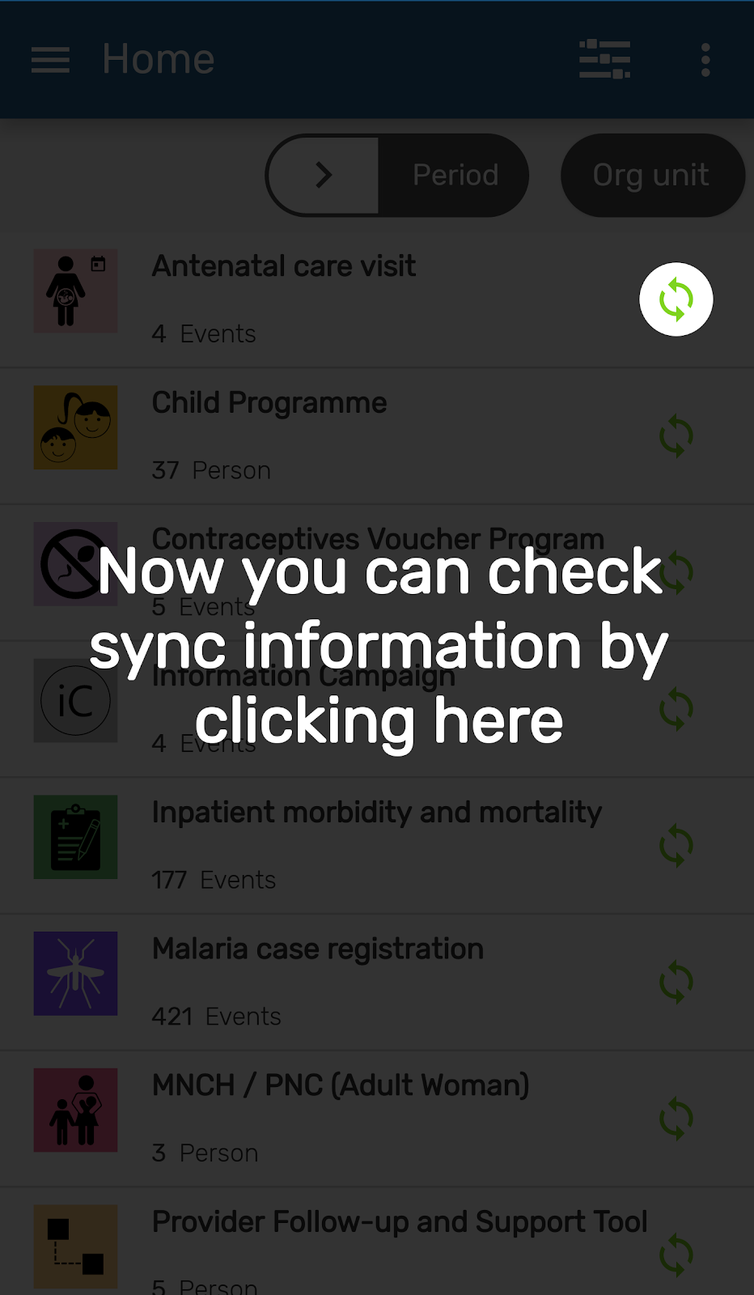
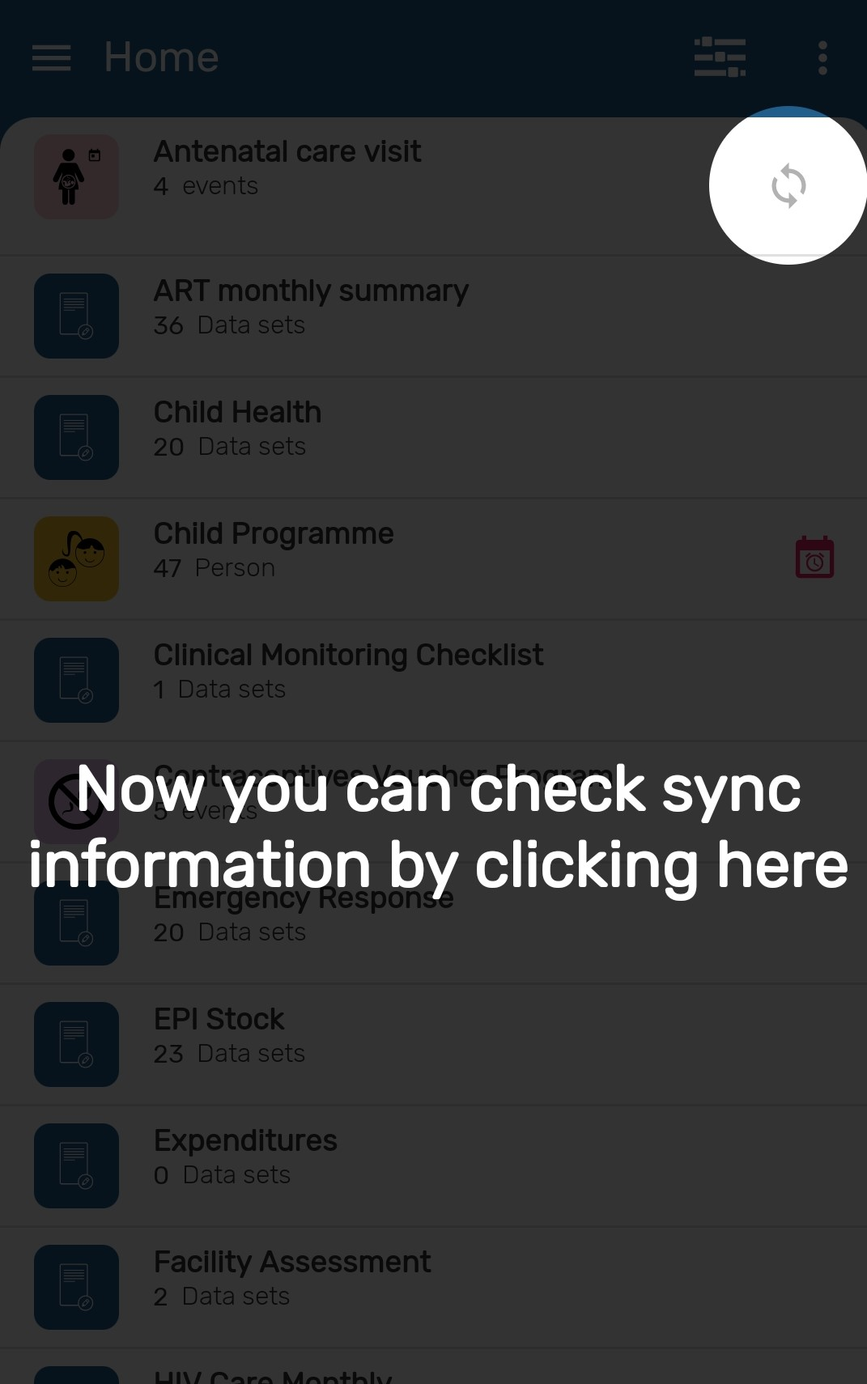
2.2 updates

diff --git a/docs/src/commonmark/en/content/capture-app/program-indicators.md b/docs/src/commonmark/en/content/capture-app/program-indicators.md
@@ -13,6 +13,50 @@ Any issues around using a particular feature with Android are highlighted with a
 |![](resources/images/../../admin/icon-na.png)|Not applicable|
 |![](resources/images/../../admin/icon-wip.png)|Work in progress. Feature not completely implemented yet or with unexpected behaviour already reported.|
 
+## Common functions to use in a program indicator expression or filter
+
+ Function| Description |Status|Notes on implementation|
+|-|---|:-:|---|
+|if|Evaluates the boolean expression and if true returns the true expression value, if false returns the false expression value. The arguments must follow the rules for any indicator expression.|![](resources/images/../../admin/icon-complete.png)||
+|isNull|Returns true if the element value is missing (null), otherwise false.|![](resources/images/../../admin/icon-complete.png)||
+|isNotNull|Returns true if the element value is not missing (not null), otherwise false.|![](resources/images/../../admin/icon-complete.png)||
+|firstNonNull|RReturns the value of the first element that is not missing (not null). Can be provided any number of arguments. Any argument may also be a numeric or string literal, which will be returned if all the previous objects have missing values.|![](resources/images/../../admin/icon-complete.png)||
+|greatest|Returns the greatest (highest) value of the expressions given. Can be provided any number of arguments.|![](resources/images/../../admin/icon-complete.png)||
+|least|Returns the least (lowest) value of the expressions given. Can be provided any number of arguments.|![](resources/images/../../admin/icon-complete.png)||
+
+## (d2) Functions to use in a program indicator expression or filter
+
+ Function| Description |Status|Notes on implementation|
+|-|---|:-:|---|
+|addDays|Produces a date based on the first argument date, adding the second argument number of days.|![](resources/images/../../admin/icon-complete.png)||
+|ceil|Rounds the input argument up to the nearest whole number.|![](resources/images/../../admin/icon-complete.png)||
+|condition|Evaluates the boolean expression and if true returns the true expression value, if false returns the false expression value. The conditional expression must be quoted. The true-expr and false-expr arguments must follow the rules of any program indicator expression (including functions).|![](resources/images/../../admin/icon-complete.png)||
+|count|Counts the number of data values that has been collected for the given program stage and data element in the course of the enrollment. The argument data element is supplied with the #{programStage.dataElement} syntax.|![](resources/images/../../admin/icon-complete.png)||
+|countIfCondition|Counts the number of data values that matches the given condition criteria for the given program stage and data element in the course of the enrollment. The argument data element is supplied with the #{programStage.dataElement} syntax. The condition is supplied as a expression in single quotes.|![](resources/images/../../admin/icon-complete.png)||
+|countIfValue|Counts the number of data values that matches the given literal value for the given program stage and data element in the course of the enrollment. The argument data element is supplied with the #{programStage.dataElement} syntax. The value can be a hard coded text or number.|![](resources/images/../../admin/icon-complete.png)||
+|countIfZeroPos|Counts the number of values that is zero or positive entered for the source field in the argument.|![](resources/images/../../admin/icon-complete.png)||
+|daysBetween|Produces the number of days between two data elements/attributes of type date.|![](resources/images/../../admin/icon-complete.png)||
+|floor|Rounds the input argument down to the nearest whole number.|![](resources/images/../../admin/icon-complete.png)||
+|hasUserRole|Returns true if current user has this role otherwise false.|![](resources/images/../../admin/icon-complete.png)||
+|hasValue|Returns true if the data element/attribute has a value.|![](resources/images/../../admin/icon-complete.png)||
+|inOrgUnitGroup|Evaluates whether the current organisation unit is in the argument group. The argument can be defined with either ID or organisation unit group code.|![](resources/images/../../admin/icon-complete.png)||
+|left|Evaluates to the left part of a text, num-chars from the first character.|![](resources/images/../../admin/icon-complete.png)||
+|length|Find the length of a string.|![](resources/images/../../admin/icon-complete.png)||
+|minutesBetween|Produces the number of minutes between two data elements/attributes of type “date and time”.|![](resources/images/../../admin/icon-complete.png)||
+|modulus|Produces the modulus when dividing the first with the second argument.|![](resources/images/../../admin/icon-complete.png)||
+|monthsBetween|Produces the number of full months between the first and second argument.|![](resources/images/../../admin/icon-complete.png)||
+|oizp|Returns one if the expression is zero or positive, otherwise returns zero.|![](resources/images/../../admin/icon-complete.png)||
+|relationshipCount|Produces the number of relationships of the given type that is connected to the enrollment or event. When no type is given, all types are counted.|![](resources/images/../../admin/icon-incomplete.png)||
+|right|	Evaluates to the right part of a text, num-chars from the last character.|![](resources/images/../../admin/icon-complete.png)||
+|round|	Rounds the input argument to the nearest whole number.|![](resources/images/../../admin/icon-complete.png)||
+|split|RSplit the text by delimiter, and keep the nth element(0 is the first).|![](resources/images/../../admin/icon-complete.png)||
+|substring|Evaluates to the part of a string specified by the start and end character number.|![](resources/images/../../admin/icon-complete.png)||
+|validatePatten|Evaluates to true if the input text is an exact match with the supplied regular expression pattern.|![](resources/images/../../admin/icon-complete.png)||
+|weeksBetween|Produces the number of full weeks between two data elements/attributes of type date.|![](resources/images/../../admin/icon-complete.png)||
+|yearsBetween|Produces the number of years between the first and second argument.|![](resources/images/../../admin/icon-complete.png)||
+|zing|Returns zero if the expression is negative, otherwise returns the expression value.|![](resources/images/../../admin/icon-complete.png)||
+|zpvc|Returns the number of numeric zero and positive values among the given object arguments.|![](resources/images/../../admin/icon-complete.png)||
+
 ## Variables to use in a program indicator expression or filter
 
 <!-- DHIS2-SECTION-ID:programindicators_variables -->
@@ -20,22 +64,23 @@ Any issues around using a particular feature with Android are highlighted with a
 | Variable type| Description of variable type|Status|Notes on implementation|
 |-|---|:-:|---|
 |Event Date<br/>event_date|The date of when the event took place.|![](resources/images/../../admin/icon-complete.png)||
-|Creation Date\*<br/>creation_date|The date of when an event or enrollment was created in the system.|![](resources/images/../../admin/icon-wip.png)||
+|Creation Date\*<br/>creation_date|The date of when an event or enrollment was created in the system.|![](resources/images/../../admin/icon-complete.png)||
 |Due Date<br/>due_date|The date of when an event is due.|![](resources/images/../../admin/icon-complete.png)||
-|Sync Date\*<br/>sync_date|The date of when the event or enrollment was last synchronized with the Android app.|![](resources/images/../../admin/icon-wip.png)||
+|Sync Date\*<br/>sync_date|The date of when the event or enrollment was last synchronized with the Android app.|![](resources/images/../../admin/icon-incomplete.png)||
 |Incident Date<br/>incident_date|The date of the incidence of the event.|![](resources/images/../../admin/icon-complete.png)||
 |Enrollment Date (not visible on UI)<br/>enrollment_date|The date of when the tracked entity instance was enrolled in the program.|![](resources/images/../../admin/icon-complete.png)||
 |Enrollment Status<br/>enrollment_status|Can be used to include or exclude enrollments in certain statuses.|![](resources/images/../../admin/icon-complete.png)||
 |Current Date<br/>current_date|The current date.|![](resources/images/../../admin/icon-complete.png)||
-|Completed Date|The date the event is completed.|![](resources/images/../../admin/icon-wip.png)||
+|Completed Date|The date the event is completed.|![](resources/images/../../admin/icon-complete.png)||
 |Value Count<br/>value_count|The number of non-null values in the expression part of the event.|![](resources/images/../../admin/icon-complete.png)||
 |Zero or positive value count<br/>zero_pos_value_count|The number of numeric positive values in the expression part of the event.|![](resources/images/../../admin/icon-complete.png)||
 |Event Count<br/>event_count|The count of events (useful in combination with filters).|![](resources/images/../../admin/icon-complete.png)||
-|Enrollment Count<br/>enrollment_count|The count of enrollments (useful in combination with filters).|![](resources/images/../../admin/icon-na.png)|Indicators in the Android App are calculated in the domain of one TEI enrollment. Value always 1.||
+|Enrollment Count<br/>enrollment_count|The count of enrollments (useful in combination with filters).|![](resources/images/../../admin/icon-complete.png)|Indicators in the Android App are calculated in the domain of one TEI enrollment. Value always 1.||
 |TEI Count<br/>tei_count|The count of tracked entity instances (useful in combination with filters).|![](resources/images/../../admin/icon-na.png)|Indicators in the Android App are calculated in the domain of one TEI enrollment. Value always 1.||
-|Program Stage Name<br/>program_stage_name|Can be used in filters for including only certain program stages in a filter for tracker programs.|![](resources/images/../../admin/icon-wip.png)||
-|Program Stage ID<br/>program_stage_id|Can be used in filters for including only certain program stages in a filter for tracker programs.|![](resources/images/../../admin/icon-wip.png)||
+|Program Stage Name<br/>program_stage_name|Can be used in filters for including only certain program stages in a filter for tracker programs.|![](resources/images/../../admin/icon-incomplete.png)||
+|Program Stage ID<br/>program_stage_id|Can be used in filters for including only certain program stages in a filter for tracker programs.|![](resources/images/../../admin/icon-incomplete.png)||
 |Reporting Period Start<br/>reporting_period_start|Can be used in filters or expressions for comparing any date to the first date in each reporting period.|![](resources/images/../../admin/icon-na.png)|Indicators in the Android App are calculated in the domain of one TEI enrollment.||
 |Reporting Period End<br/>reporting_period_end|Can be used in filters or expressions for comparing any date to the last inclusive date in each reporting period.|![](resources/images/../../admin/icon-na.png)|Indicators in the Android App are calculated in the domain of one TEI enrollment.||
+|Organisation Unit Count<br/>organisationunit_count|.|![](resources/images/../../admin/icon-na.png)|||
 
 [Documentation Reference](https://docs.dhis2.org/master/en/user/html/configure_program_indicator.html%23program_indicator_functions_variables_operators&sa=D&ust=1557433016643000)

diff --git a/docs/src/commonmark/en/content/capture-app/program-rules-supported-in-android-capture-app.md b/docs/src/commonmark/en/content/capture-app/program-rules-supported-in-android-capture-app.md
@@ -41,7 +41,7 @@ Any issues around using a particular feature with Android are highlighted with a
 |Hide Option|Hide a single option for an option set in a given data element/tracked entity attribute. When combined with <b>show option group</b> the <b>hide option</b> takes precedence|![](resources/images/../../admin/icon-wip.png)|![](resources/images/../../admin/icon-wip.png)||
 |Hide Option Group|Hide all options in a given option group and data element/tracked entity attribute. When combined with <b>show option group</b> the <b>hide option</b> takes precedence |![](resources/images/../../admin/icon-wip.png)|![](resources/images/../../admin/icon-wip.png)||
 |Show option group|Used to show only options from a given option group in a given data element/tracked entity attribute. To show an option group implicitly hides all options that is not part of the group(s) that is shown.|![](resources/images/../../admin/icon-wip.png)|![](resources/images/../../admin/icon-wip.png)||
-|Assign Value|Assigns a value to a specified data element or attribute if the rule is true.|![](resources/images/../../admin/icon-complete.png)|![](resources/images/../../admin/icon-complete.png)||
+|Assign Value|Assigns a value to a specified data element or attribute if the rule is true.|![](resources/images/../../admin/icon-complete.png)|![](resources/images/../../admin/icon-complete.png)|To assing text, it must be in single quotes. For example: '2+2' will show the text 2+2 and 2+2, without the single quotes will show 4. |
 |Show Warning|Shows pop-up warning to the user if rule is true; does not prevent the user from continuing.|![](resources/images/../../admin/icon-complete.png)|![](resources/images/../../admin/icon-complete.png)||
 |Warning on Complete|Shows a pop-up warning to the user if, at the point &lsquo;complete&rsquo; is clicked, a rule is true; this does not prevent the user from continuing.|![](resources/images/../../admin/icon-complete.png)|![](resources/images/../../admin/icon-complete.png)||
 |Show Error|Shows a pop-up error message to the user as soon as a rule is true, and prevents user from continuing until rule is no longer true.|![](resources/images/../../admin/icon-complete.png)|![](resources/images/../../admin/icon-complete.png)|The field will be cleared out so that the user is unable to store a value unless it meets the criteria of the program rule.||
@@ -65,7 +65,7 @@ Any issues around using a particular feature with Android are highlighted with a
 |Hide Section|Hides a whole section and its data elements if the rule is true.|![](resources/images/../../admin/icon-complete.png)|![](resources/images/../../admin/icon-complete.png)|![](resources/images/../../admin/icon-complete.png)|![](resources/images/../../admin/icon-complete.png)|![](resources/images/../../admin/icon-complete.png)|![](resources/images/../../admin/icon-complete.png)||
 |Hide Option|Hide a single option for an option set in a given data element/tracked entity attribute. When combined with <b>show option group</b> the <b>hide option</b> takes precedence.|![](resources/images/../../admin/icon-complete.png)|![](resources/images/../../admin/icon-complete.png)|![](resources/images/../../admin/icon-complete.png)|![](resources/images/../../admin/icon-complete.png)|![](resources/images/../../admin/icon-complete.png)|![](resources/images/../../admin/icon-complete.png)||
 |Hide Option Group|Hide all options in a given option group and data element/tracked entity attribute.When combined with show option group the hide option takes precedence.|![](resources/images/../../admin/icon-complete.png)|![](resources/images/../../admin/icon-complete.png)|![](resources/images/../../admin/icon-complete.png)|![](resources/images/../../admin/icon-complete.png)|![](resources/images/../../admin/icon-complete.png)|![](resources/images/../../admin/icon-complete.png)||
-|Assign Value|Assigns a value to a specified data element or attribute if the rule is true.|![](resources/images/../../admin/icon-complete.png)|![](resources/images/../../admin/icon-complete.png)|![](resources/images/../../admin/icon-complete.png)|![](resources/images/../../admin/icon-complete.png)|![](resources/images/../../admin/icon-complete.png)|![](resources/images/../../admin/icon-complete.png)||
+|Assign Value|Assigns a value to a specified data element or attribute if the rule is true.|![](resources/images/../../admin/icon-complete.png)|![](resources/images/../../admin/icon-complete.png)|![](resources/images/../../admin/icon-complete.png)|![](resources/images/../../admin/icon-complete.png)|![](resources/images/../../admin/icon-complete.png)|![](resources/images/../../admin/icon-complete.png)|To assing text, it must be in single quotes. For example: '2+2' will show the text 2+2 and 2+2, without the single quotes will show 4.|
 |Show Warning|Shows pop-up warning to the user if rule is true; does not prevent the user from continuing.|![](resources/images/../../admin/icon-complete.png)|![](resources/images/../../admin/icon-complete.png)|![](resources/images/../../admin/icon-complete.png)|![](resources/images/../../admin/icon-complete.png)|![](resources/images/../../admin/icon-complete.png)|![](resources/images/../../admin/icon-complete.png)||
 |Warning on Complete|Shows a pop-up warning to the user if, at the point "complete" is clicked, a rule is true; this does not prevent the user from continuing.|![](resources/images/../../admin/icon-complete.png)|![](resources/images/../../admin/icon-complete.png)|![](resources/images/../../admin/icon-complete.png)|![](resources/images/../../admin/icon-complete.png)|![](resources/images/../../admin/icon-complete.png)|![](resources/images/../../admin/icon-na.png)||
 |Show Error|Shows a pop-up error message to the user as soon as a rule is true, and prevents user from continuing until rule is no longer true.|![](resources/images/../../admin/icon-complete.png)|![](resources/images/../../admin/icon-complete.png)|![](resources/images/../../admin/icon-complete.png)|![](resources/images/../../admin/icon-complete.png)|![](resources/images/../../admin/icon-complete.png)|![](resources/images/../../admin/icon-complete.png)|The rule will let the user to finish the enrollment but will prevent from completing the events until rule is no longer true. The field will be cleared out so that the user is unable to store a value unless it meets the criteria of the program rule.||

diff --git a/docs/src/commonmark/en/content/capture-app/features-supported.md b/docs/src/commonmark/en/content/capture-app/features-supported.md
@@ -68,9 +68,89 @@ It is possible to add notes to events in single event programs and program stage
 ![](resources/images/image106.jpg){ width=25%}
 ![](resources/images/image107.jpg){ width=25%}
 
+### Maps
+
+#### Map Layers in programs without registration
+
+The possible layers to display in maps are:
+
+- Show events
+- Show satellite views
+
+The user can select one or more layers to be displayed.
+
+![](resources/images/image133.png){ width=25%}
+
+#### Map Carousel in programs without registration
+
+On the map view of the program, a carousel of cards is displayed, one for each event.
+
+* When scrolling horizontally the carousel, the map zooms into the selected coordinates. If coordinates field is empty a message is shown instead.
+
+![](resources/images/image132.png){ width=25%}
+
 ## Program with registration in Android
 
 <!-- DHIS2-SECTION-ID:programs_registration -->
+
+### TEI Card Design
+
+The new TEI Card design includes:
+
+* Last update date
+* Other enrollments in programs with displayFrontPageList
+* At least **3 main attributes**. 
+  * If there are more, there will be an arrow to display the full list (only attributes with displayInList option)
+* Enrollment status label if **completed** or **cancelled**
+* Overdue icon if an overdue event exists with the most recent overdue event date
+* Card image (one of the following options):
+  * Profile picture when available or
+  * First letter of the first attribute or
+  * Tracked Entity Type icon
+  * A hyphen will display if non of the options are available
+
+![](resources/images/image124.png){ width=25%}
+
+### Maps
+
+#### Map Layers
+
+The possible layers to display in maps are:
+
+- TEI coordinates (by default)
+- Enrollment Coordinates
+- Program Stage coordinates
+- Relationships
+- Heatmap
+- Satellite view
+
+The user can select one or more layers to be displayed.
+
+The maps will display coordinates and polygons.
+
+![](resources/images/image125.jpg){ width=25%}
+
+#### Map Carousel
+
+On the map view of the program, a carousel of cards is displayed, one for each enrolled TEI.
+
+* TEI cards on the carousel follow the same design as the TEI list view.
+
+* When scrolling horizontally the carousel, the map zooms into the selected coordinates. If coordinates field is empty a message is shown instead.
+
+![](resources/images/image126.jpg){ width=25%}
+
+#### Map Relationships
+
+User can see relationships on a map by tapping the map icon on the relationships tab.
+
+* An arrow is shown on the direction of the relationship.
+* For bidirectional relationships, the arrow points both sides.
+* Each relationship type displays a different color.
+* If one or both TEIs have a polygon as coordinate, the line goes from (and to) the nearest point in the polygon of both TEIs.
+
+![](resources/images/image127.jpg){ width=25%}
+
 
 ### Complete/Deactivate Enrollment
 
@@ -156,6 +236,18 @@ The TEI Dashboard offers now the possibility to change the list of events from t
 
 ![](resources/images/image108.png){ width=25%}
 ![](resources/images/image109.jpg){ width=25%}
+
+### Inherit Values
+
+When creating a new TEI for a relationship, inherit any program attribute marked with the inherit check in web.
+
+This means that any existing attributes in the first TEI should have pass to the new TEI and be shown in the registration form.
+
+### Breaking the glass
+
+If the program is configured with access level 'protected', and the user searches and finds tracked entity instances that is owned by organisation unit that the user does not have data capture authority for, the user is presented with the option of breaking the glass. In the app, if the TEI is not stored locally, a message will pop-up.
+
+[Screenshot when available]
 
 ## Supported features Overview
 
@@ -257,6 +349,7 @@ In the notes, ‘admin’ refers to someone who develops and configures a DHIS2 
 |Search screen for all TE Type|User is able to search across all program of one tracked entity type (TET). In the Search screen there is a drop down which shows all the programs available for the active TET (active TET is defined by the selection of the program in the home screen). That drop down should also have an option with TET name. (Person in our server). When the user selects that option, the search fields available will only be the TET attributes (no program specific attributes). All search restrictions do not apply, because they belong to the programs.|![](resources/images/../../admin/icon-complete.png)||
 |TEI Dashboard without program|User can see the TEI dashboard without any program by selecting the TEI in the list if the search was without program. The dashboards will show the TET attributes in the details card followed by a list of active enrollments.|![](resources/images/../../admin/icon-complete.png)||
 |TEI enrollment history and new enrollment|User is able to see the complete historical record of the TEI. By clicking on the top right corner icon they will see a list of Active enrolments, followed by a list of past enrolments (completed or cancelled), followed by the programs in which the TEI could be enrolled. Users should be able to navigate to the different enrolments from the list.|![](resources/images/../../admin/icon-complete.png)||
+|Access level-Breaking the glass|If the program is configured with access level protected, and the user searches and finds tracked entity instances that is owned by organisation unit that the user does not have data capture authority for, the user is presented with the option of breaking the glass. The user will gove a reason for breaking the glass, then gain temporary ownership of the tracked entity instance.|![](resources/images/../../admin/icon-complete.png)||
 
 ### Program without registration: Single event program
 

diff --git a/docs/src/commonmark/en/content/capture-app/programs-specific-features.md b/docs/src/commonmark/en/content/capture-app/programs-specific-features.md
@@ -6,6 +6,41 @@
 
 <!-- DHIS2-SECTION-ID:datasets_android -->
 
+### Overview Screen
+
+The new overview tab contains the following details:
+
+- Data set name
+- Last Update
+- Open/Close Status
+- Period
+- Org Unit
+- Category option combo
+
+![](resources/images/image122.png){ width=25%}
+
+#### Saving a data set
+
+Validation rules and completion of data sets are integrated in the save button actions:
+
+- When a data set is configured to complete only if validation passess. If the validation is successful, a dialog asking to mark as complete will show up. The app will allow completion only if all mandatory fields have value.
+
+![](resources/images/image131.png){ width=25%}
+  
+- if it is not successful, then an error dialog should show and the dataset will not be marked as complete.
+
+![](resources/images/image128.png){ width=25%}
+
+- On a dataset that does not have setup "Complete allowed only if validation passes". When clicking on the save button; if the dataset has validation rules associated to it, then the app will ask the user to run the validation rules.
+  
+![](resources/images/image130.png){ width=25%}
+
+- If the validation is not successful, an error dialog should show but with the possibility to complete the data set anyway.
+
+![](resources/images/image129.png){ width=25%}
+
+- If the dataset does not have validation rules, the dataset will be marked as complete if all mandatory fields have value.
+
 ### Increase Row Headers
 
 <!-- DHIS2-SECTION-ID:datasets_android_increase -->
@@ -42,7 +77,7 @@ In the notes, ‘admin’ refers to someone who develops and configures a DHIS2 
 |Complete notification recipients|Sends a DHIS2 message to the selected User Group when the Data Set is marked 'complete'.|![](resources/images/../../admin/icon-incomplete.png)| |
 |Send notification to completing user|Sends a DHIS2 message to the data-entry user when the Data Set is marked 'complete'.|![](resources/images/../../admin/icon-incomplete.png)| |
 |All fields for data elements required|Where one or more Categories are used to disaggregate a data element, this setting forces the user to either complete all disaggregations, or to leave them all empty.|![](resources/images/../../admin/icon-complete.png) | |
-|Complete only if validation passes|Only allows the Data Set to be marked complete if no Validation Rules are triggered.|![](resources/images/../../admin/icon-incomplete.png)| |
+|Complete only if validation passes|Only allows the Data Set to be marked complete if no Validation Rules are triggered.|![](resources/images/../../admin/icon-complete.png)| |
 |Skip offline|Requires the user to add a 'comment' if a value is left blank (or Data Set cannot be 'completed'). Only allows Data set to be selected for data entry while connected to the internet (although once selected, data entry can continue offline).|![](resources/images/../../admin/icon-incomplete.png)| |
 |Data element decoration|Shows the description of the Data Element when the mouse hovers over the Data Element Name.|![](resources/images/../../admin/icon-complete.png) | |
 |Section forms - render sections as tabs|Displays each section in the form as a separate tab, instead of all together on the same page.|![](resources/images/../../admin/icon-incomplete.png)| |
@@ -65,7 +100,7 @@ In the notes, ‘admin’ refers to someone who develops and configures a DHIS2 
 |Print form / print blank form|Enables printing of a data-entry form, to permit data capture on paper, and data-entry later.|![](resources/images/../../admin/icon-incomplete.png)| |
 |Save data|Data entered into the screen is not captured until 'saved' - until then, it is only held in memory, and is lost if power is switched off etc.|![](resources/images/../../admin/icon-complete.png)| |
 |Complete data set|This enables user to mark data-entry for a period/org unit/etc as 'complete'.  Note that this is just for data-entry tracking and timeliness purposes, and does not lock the data set or prevent further edits.|![](resources/images/../../admin/icon-complete.png)| |
-|Data elements: validation rules|Enables the creation of rules (at the data element level) to enforce data quality, based on comparing different values/collections of values.  (Eg number of patients seen in the month must be less than the number of visits for the month.)|![](resources/images/../../admin/icon-incomplete.png)| |
+|Data elements: validation rules|Enables the creation of rules (at the data element level) to enforce data quality, based on comparing different values/collections of values.  (Eg number of patients seen in the month must be less than the number of visits for the month.)|![](resources/images/../../admin/icon-complete.png)| |
 |Data sharing levels/Can capture data|Enables the user to add new values, edit values and delete values in the dataset.|![](resources/images/../../admin/icon-complete.png) | |
 |Data sharing levels/Can view data|Enables the user to see values within the dataset.|![](resources/images/../../admin/icon-complete.png) | |
 |Data sharing levels/No access|The user won’t be able to see the dataset.|![](resources/images/../../admin/icon-complete.png) | |

diff --git a/docs/src/commonmark/en/content/capture-app/new-android-specific-features.md b/docs/src/commonmark/en/content/capture-app/new-android-specific-features.md
@@ -82,21 +82,93 @@ The app has new and improved filters for all listing screens (home, event listin
 
 Filter by period, org. Unit, sync state, event status, category option combination and "assigned to me".
 
-> **Note**
->
->It is possible to filter events based on its assignment to the current user. The “Assigned to me” filter has been added to the single event program list, the TEI list and the TEI Dashboard and the map views. It will only be displayed when the active program is configured to assign events to users.
-
 ![](resources/images/image96.jpg){ width=25%}
 ![](resources/images/image97.jpg){ width=25%}
 
 Filters will adapt to the different programs and data sets. 
-1. Program without registration: Period, Org. Unit, Sync State, Event Status and, Category Combination.
-2. Program with registration: Period, Org. Unit, and Sync State.
-3. Data Sets: Period, Org. Unit, and Syn State.
+1. Program without registration: Date, Org. Unit, Sync State, Event Status and, Category Combination.
+2. Program with registration: Event Date, Date of enrollment, Org. Unit, Sync, Enrollment Status, Event Status and Assigned to me
+3. Data Sets: Period, Org. Unit, and Sync State.
+
+### Assigned to me
+
+It is possible to filter events based on its assignment to the current user. The “Assigned to me” filter has been added to the single event program list, the TEI list and the TEI Dashboard and the map views. It will only be displayed when the active program is configured to assign events to users.
+
+### Event Date/Date/Period
+
+Filter the Events, TEIs(based on their events) and data sets, the following periods of time are availables:
+- Today
+- This week
+- This month
+- Yesterday
+- Last week
+- Last month
+- Tomorrow
+- Next week
+- Next month
+- From-to
+- Other (Opens a date picker)
+- Anytime
+
+### Org. Unit
+
+Allows the user to type the search or select an org unit from the tree.
+
+### Sync
+
+Filer by:
+- Synced (events, TEIs, Data Sets)
+- Not Synced
+- Sync Error
+- SMS Synced
+
+
+### Event Status
+
+Filter the events by:
+- Open
+- Schedule
+- Overdue
+- Completed
+- Skipped
+
+Multiple status selection is permited. Once you open a TEI, the filter will be kept in the dashboard and show only the events with the selected status.
+
+Events shown are up to 5 years old.
+
+### Date of Enrollment
+
+The 'Date of Enrollment' will apply to the Enrollment date of the TEI in the program. If there is more than one enrollment date, it should sort the results by the most recent one. The label of this filter will display when available.
+
+### Enrollment Status
+
+The filter 'Enrollment status' offers three options: Active, Completed, Cancelled. Only ona option can be selected at time. If you filter by "completed" and the TEI has more than one enrollment, the app will open the "active"  enrollment. To see the completed one, select the three dot menu at the top right corner of the dashboard and select "program enrollments".
+
+### Sorting
+
+Sorting has been integrated in the filter menu.
+
+The sorting button will be on the filter bars with the following behavior:
+- Only one sorting applies at a time. If the user clicks a different one, the previous one is disabled.
+- The icon for applied sorting shows it is active, the others are inactive.  
+- Repeated clicks keep changing the order to the reverse.
+
+#### Dates (Period, Date, Event Date or Enrollment Date)
+
+- Event Date preceds due date, only use due date when there is no event date.
+- Order from most recent to less recent. Future events (due date) goes first.
+
+#### Org units
+
+-List will be sorted in alphabetical order by org unit name.
+
+#### Enrollment Status
+
+-List will be sorted in alphabetical order by status name.
+
+![](resources/images/image123.png){ width=25%}
 
 ### Filtering added in TEI Dashboard:
-
-<!-- DHIS2-SECTION-ID:generic_filtering -->
 
 Filters have been added to the TEI dashboard. It is possible to filter the events of a Tracked Entity Instance enrollment per period, organisation unit, sync status, event status, and user assignment.
 
@@ -106,7 +178,7 @@ Filters have been added to the TEI dashboard. It is possible to filter the event
 
 <!-- DHIS2-SECTION-ID:generic_sync -->
 
-Allows the user to check sync information for a specific program.
+Allows the user to check sync information for a specific program. Now the synced records will not show any icon. Only unsynced, error or SMS icons will be displayed.
 
 ![](resources/images/image67.png){ width=20%}
 ![](resources/images/image68.png){ width=20%}
